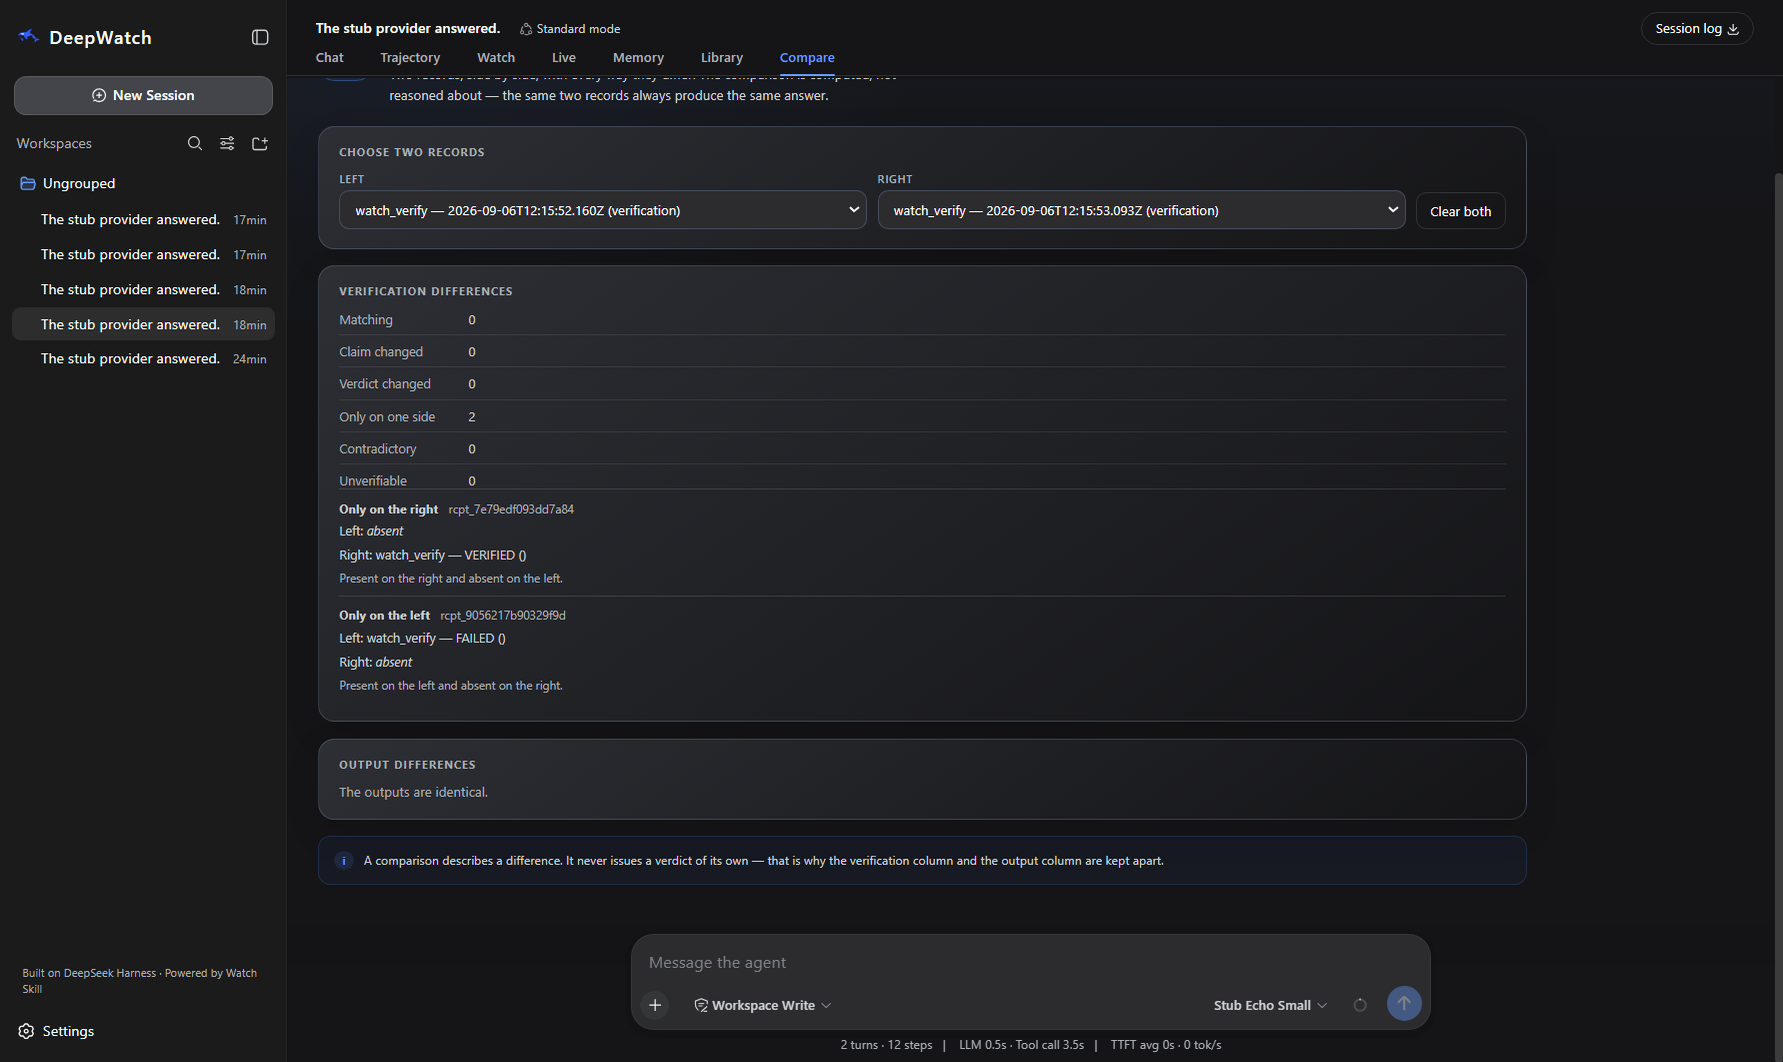
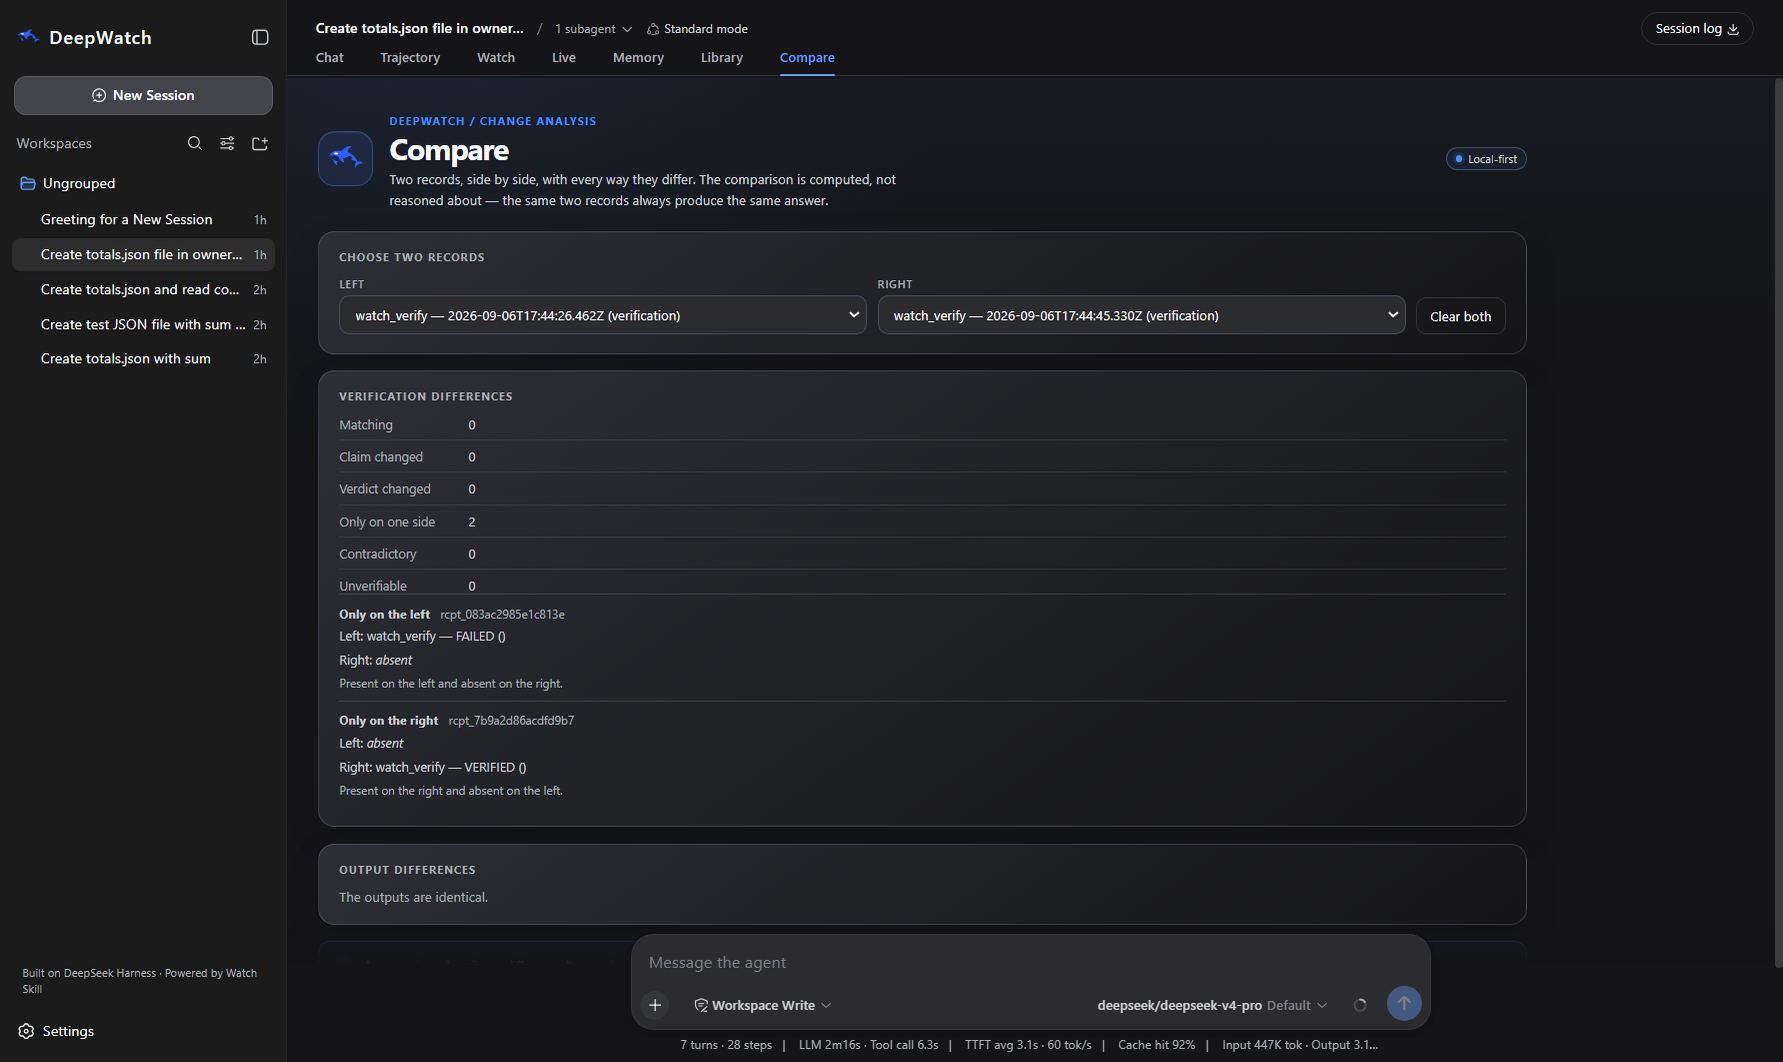
docs(readme): one place for the workspace, and the animation the owner rejected
**The lessons terminal animation is gone.** `docs/assets/lessons_loop.gif` —
the 720×147 capture of `agentvision evals run` reporting "Pass rate: 100% (1/1,
0 skipped)" — was rejected outright. Its image block and the empty wrapper it
sat in are removed, and the asset with them, since nothing else referenced it.
The corrections-and-lessons paragraph stays: a correction becomes a classified
lesson, is applied on re-ask, and is counted in the savings meter. That is a
feature, and the prose and
[its guide](docs/guides/lessons-and-savings.md) still say so.

**The DeepWatch screenshots were scattered through the engine's
documentation.** Two of them sat near the top under "What it actually looks
like", before a reader had been told what DeepWatch is, and the rest were only
in the gallery. They are now one section — *The DeepWatch Workspace* — after
THE LOOP, as four screens in the order somebody meets them: an ordinary task,
evidence retrieved, independent verification, and Compare on the two records
from a real break and its repair. Equal widths, real alt text, a caption each,
and a link to the gallery rather than a wall.

`09-compare-two-records.png` is retaken from the real-model journey, so the
image shows `deepseek/deepseek-v4-pro` and the FAILED/VERIFIED pair that run
actually produced. Its sidecar records the two records photographed and the
text the surface rendered.

**The opening states the product.** It led with "An agent that cannot see
[…]

diff --git a/README.md b/README.md
@@ -25,9 +25,9 @@ inside it.
 [![Workspace](https://github.com/oxbshw/watch-skill/actions/workflows/workspace-ci.yml/badge.svg)](https://github.com/oxbshw/watch-skill/actions/workflows/workspace-ci.yml)
 [![Install](https://github.com/oxbshw/watch-skill/actions/workflows/install.yml/badge.svg)](https://github.com/oxbshw/watch-skill/actions/workflows/install.yml)
 
-[Quickstart](#start-here) ·
-[What it does](#what-it-actually-looks-like) ·
+[Install](#start-here) ·
 [THE LOOP](#the-loop-observe-act-verify) ·
+[Workspace](#the-deepwatch-workspace) ·
 [Architecture](#how-it-fits-together) ·
 [Docs](#documentation) ·
 [Community](#community)
@@ -36,16 +36,18 @@ inside it.
 
 ---
 
-## Why this exists
+## Two capabilities, and they work apart
 
-An agent that cannot see cannot check its own work, so it tells you what it
-believes it did. Watch Skill gives it two things it did not have: **perception**
-— video, audio and screen activity turned into frames, transcripts and OCR text,
-every one carrying an absolute timestamp — and **verification**, a frozen
-contract run by a separate process whose verdict does not come from a language
-model.
+**Perception.** Video, audio and screen activity become frames, transcripts and
+OCR text, each carrying an absolute timestamp. Index a source once and query it
+for as long as you keep it; every answer cites a moment you can open.
 
-Both halves are useful on their own, and the split is deliberate.
+**Verification.** A frozen contract — file digests, JSON values, SQL results,
+HTTP responses, DOM state — is evaluated by a separate process. The verdict is
+`VERIFIED`, `FAILED`, `UNVERIFIED` or `INCONCLUSIVE`, and it does not come from
+a language model.
+
+Either is useful on its own, and the split is deliberate.
 
 <table>
 <tr>
@@ -80,32 +82,6 @@ contract.
 </table>
 
 **Watch Skill is what sees and proves. DeepWatch is where the work happens.**
-
----
-
-## What it actually looks like
-
-An ordinary request — *create `totals.json` and tell me the sum*. Nobody
-mentioned Watch.
-
-<div align="center">
-<img src="workspace/docs/screenshots/release/05-ordinary-task.png" alt="A DeepWatch session. The agent was asked to create a file and read back its total. Write, Read and Pwsh rows are shown, each naming a workspace-relative path, and the answer confirms the file contents and the calculated total." width="88%">
-</div>
-
-Every row is a receipt, every path is workspace-relative, and the total was read
-back from the file rather than remembered. Then the part that matters:
-
-<div align="center">
-<img src="workspace/docs/screenshots/release/06-independent-verification.png" alt="A VERIFIED result card from watch_verify: two of two checks passed, one confirming the file exists and one confirming its total field equals 60, with the contract's sha256 digest." width="88%">
-</div>
-
-`watch_verify` ran a frozen contract and **Watch Core** answered. The agent did
-not grade itself: a check either passed or it did not, the contract's SHA-256 is
-on screen, and the same contract run from a different directory fails.
-
-Every image on this page is a photograph of a running build.
-[The screenshot page](workspace/docs/screenshots-release.md) names the build each
-one came from.
 
 ---
 
@@ -197,7 +173,18 @@ reconciles it into the profile's layer stack and applies the patch after its
 own. Four narrower variants — media, browser, memory, document — are declared
 alongside it for a profile that wants one capability rather than all of them.
 
-Add the engine with `pip install watch-skill`; the Bridge finds it on `PATH`.
+Add the engine — with the extras, because the bundle's media capabilities are
+the engine's:
+
+```bash
+pip install 'watch-skill[standard,ocr]'
+```
+
+`[standard]` is frames, retrieval and MCP; `[ocr]` reads on-screen text. A bare
+`pip install watch-skill` installs a Core that cannot extract a frame, and the
+Bridge would connect to it and report `perceive.missing_dependency` on the first
+video. The Bridge finds the executable on `PATH` by itself.
+
 Full guide: **[`@deepwatch/dsh-bundle`](workspace/packages/watch/bundle/README.md)**.
 
 **Requirements.** Node ≥ 22.19 and Python 3.11, 3.12 or 3.13 — the versions CI
@@ -239,13 +226,66 @@ When an answer is wrong, you correct it. Watch Skill classifies the correction,
 stores it as a lesson in the local store, re-asks the question with the lesson
 applied where the error class is mechanical, and counts what that saved.
 
-<div align="center">
-<img src="docs/assets/lessons_loop.gif" alt="A wrong answer is reported with its correction; Watch Skill classifies the mistake, re-asks the question with the lesson applied, validates the new answer, and the mistake becomes a replayable evaluation." width="640">
-</div>
-
 Lessons persist between runs and stay on your machine. Nothing learns on its
 own — the correction is yours to give — and nothing is uploaded.
 **[Lessons and savings](docs/guides/lessons-and-savings.md)**.
+
+---
+
+## The DeepWatch Workspace
+
+Everything above is the engine, and any agent can use it. DeepWatch is the
+workspace where an agent's own work happens inside it: the official DeepSeek
+Harness composed with Watch Skill, so every tool call leaves a receipt and
+"it worked" is a claim you can open.
+
+Four screens, in the order you meet them.
+
+<table>
+<tr>
+<td width="50%" valign="top">
+
+<img src="workspace/docs/screenshots/release/05-ordinary-task.png" width="100%" alt="A DeepWatch session titled 'Create totals.json and read sum'. Write, Read and Pwsh tool rows are listed, each naming a workspace-relative path such as owner-test/totals.json, and the reply states the file contents and the total read back from it.">
+
+**An ordinary task.** Nobody mentioned Watch. Every row is a receipt, every
+path is workspace-relative, and the total was read back from the file rather
+than remembered.
+
+</td>
+<td width="50%" valign="top">
+
+<img src="workspace/docs/screenshots/release/08-library-receipts.png" width="100%" alt="The Library screen showing thirteen matches, with rows for read and write on owner-test/totals.json and a pwsh call. A notice reads 'Index ready. Answered by this workspace's own host', and the page is marked Local-first.">
+
+**Evidence, retrieved.** Every source and every receipt this workspace
+recorded, searched on the workspace's own host — no service, no model.
+
+</td>
+</tr>
+<tr>
+<td width="50%" valign="top">
+
+<img src="workspace/docs/screenshots/release/06-independent-verification.png" width="100%" alt="A VERIFIED result card from watch_verify: two of two checks passed, one confirming the file exists and one confirming its total field equals 60, shown with the contract's sha256 digest.">
+
+**Independent verification.** `watch_verify` froze a contract and Watch Core
+answered. The agent did not grade itself: the contract's SHA-256 is on screen,
+and the same contract run from a different directory fails.
+
+</td>
+<td width="50%" valign="top">
+
+<img src="workspace/docs/screenshots/release/09-compare-two-records.png" width="100%" alt="The Compare screen with two verification records selected. The left is a FAILED watch_verify, the right a VERIFIED one from the run that repaired the file, and the difference table counts them as present on one side each.">
+
+**Compare, on real outcomes.** Two runs of one contract — the broken claim and
+its repair — with the verdicts Core issued for each. A comparison describes a
+difference; it never issues a verdict of its own.
+
+</td>
+</tr>
+</table>
+
+Every image is a photograph of a running build, and each caption on
+**[the screenshot page](workspace/docs/screenshots-release.md)** names the build
+it came from. The full gallery is there too.
 
 ---
 
